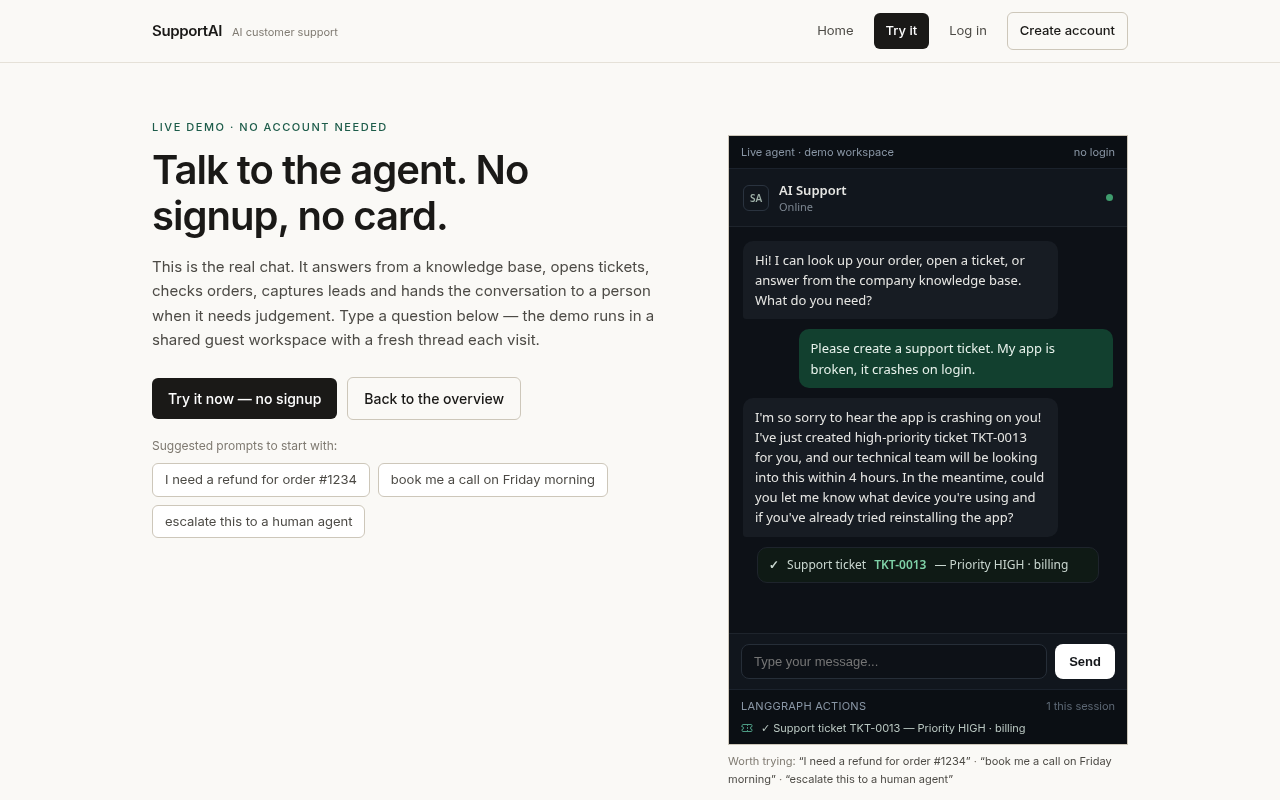
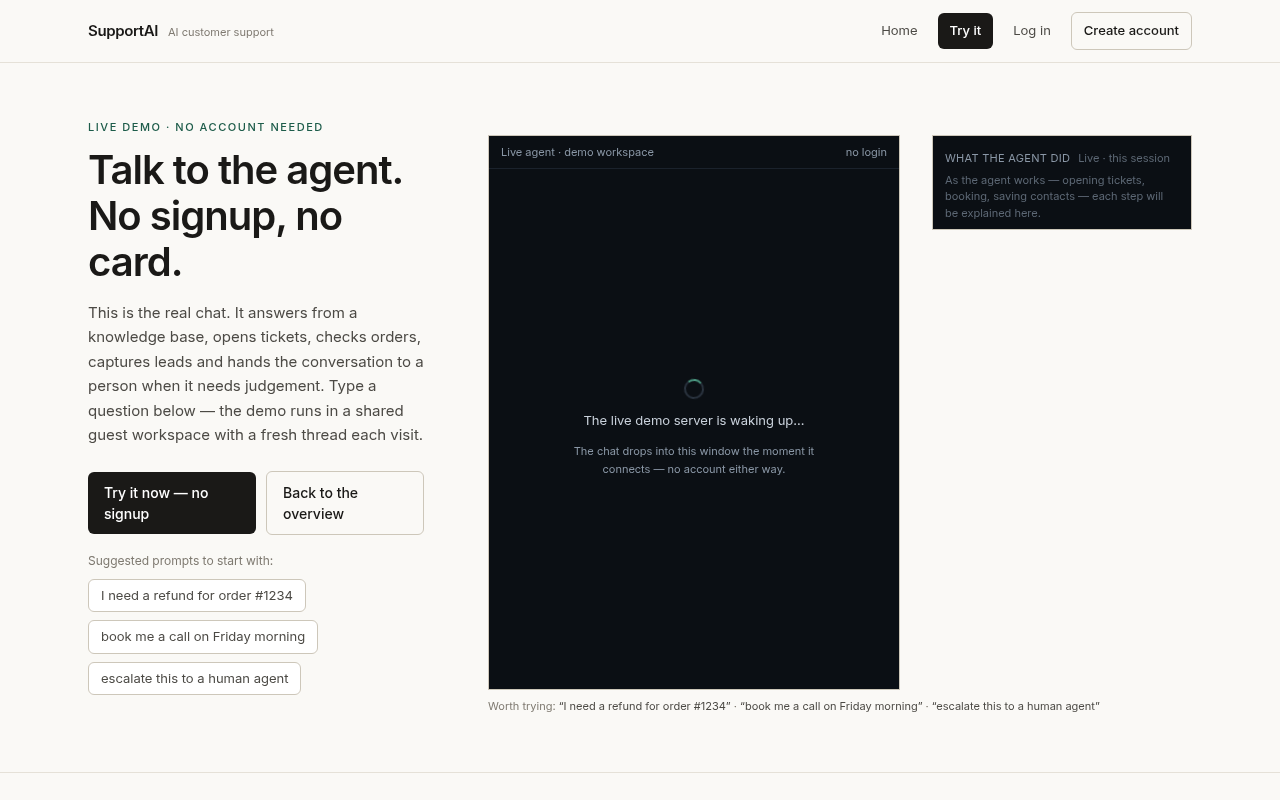
chore(assets): fresh support hero, current receptionist poster

diff --git a/components/projects.tsx b/components/projects.tsx
@@ -53,7 +53,7 @@ const projects: Project[] = [
     ],
     captures: {
       videos: [
-        { src: "/captures/receptionist/receptionist-flow.webm", poster: "/receptionist-hero-new.png", label: "flow", duration: "0:28", caption: "Booking + lead capture, live" },
+        { src: "/captures/receptionist/receptionist-flow.webm", poster: "/captures/receptionist/receptionist-try.png", label: "flow", duration: "0:28", caption: "Booking + lead capture, live" },
         { src: "/captures/receptionist/receptionist-dashboard.webm", poster: "/captures/receptionist/receptionist-dashboard.png", label: "dashboard tour", duration: "0:20", caption: "Dashboard tour" },
       ],
       images: [
